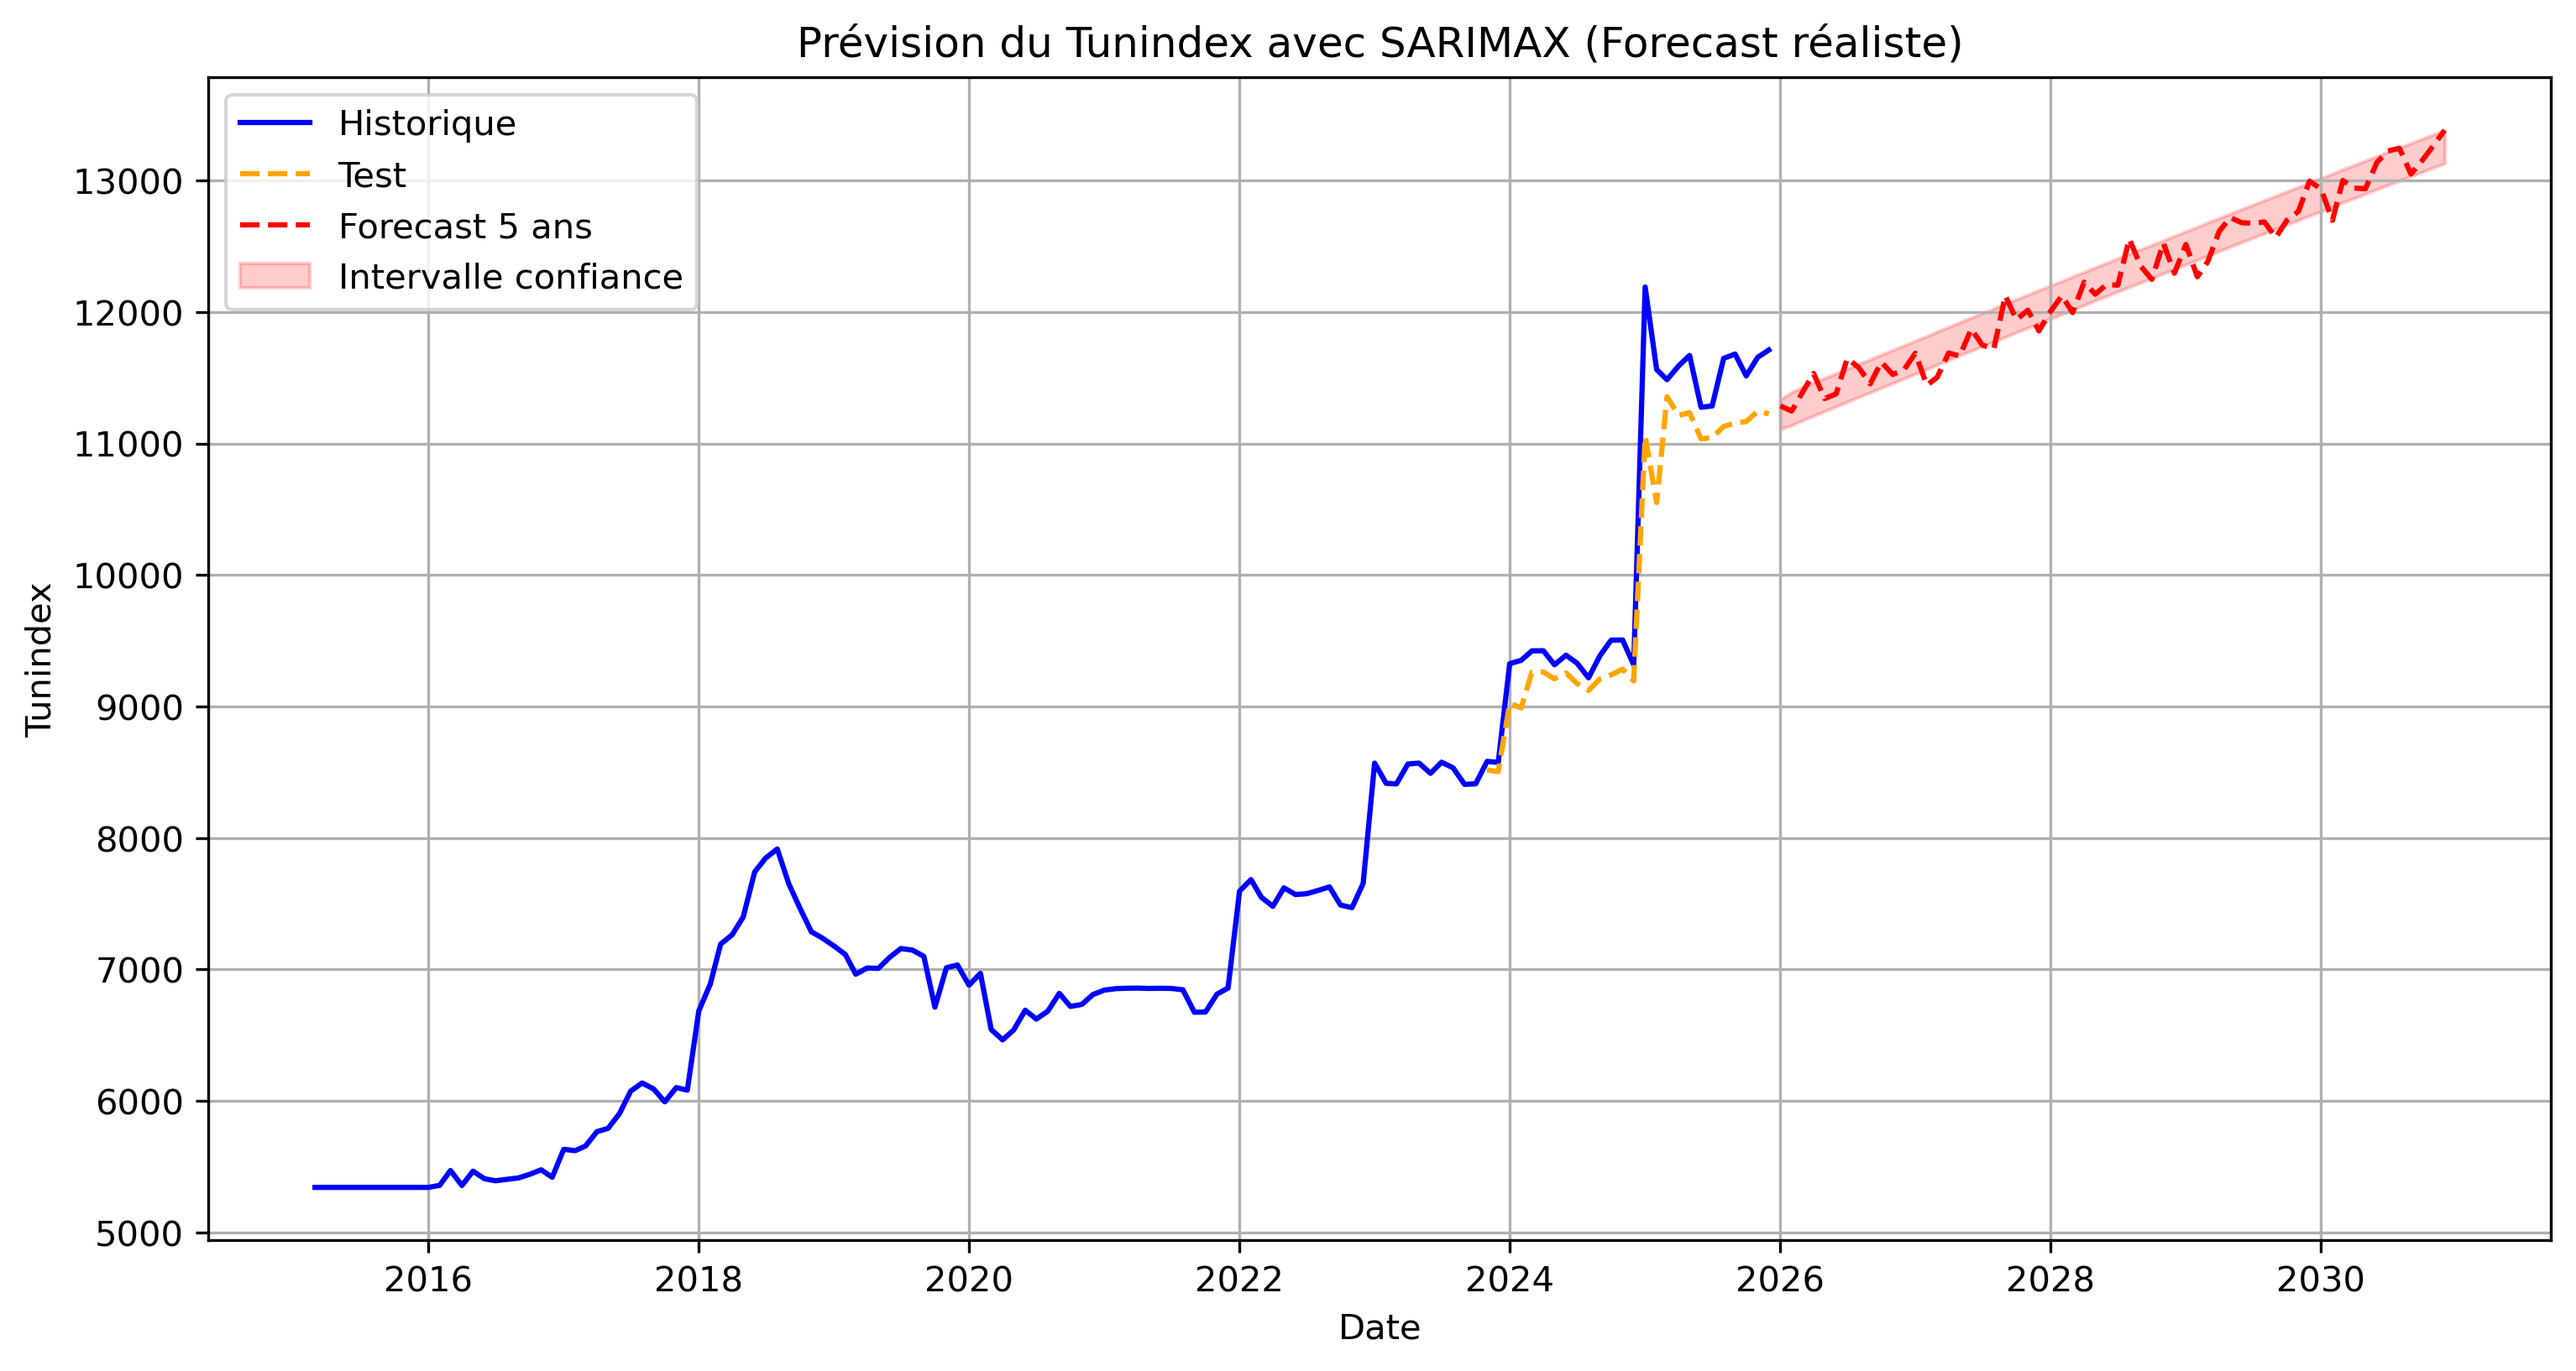
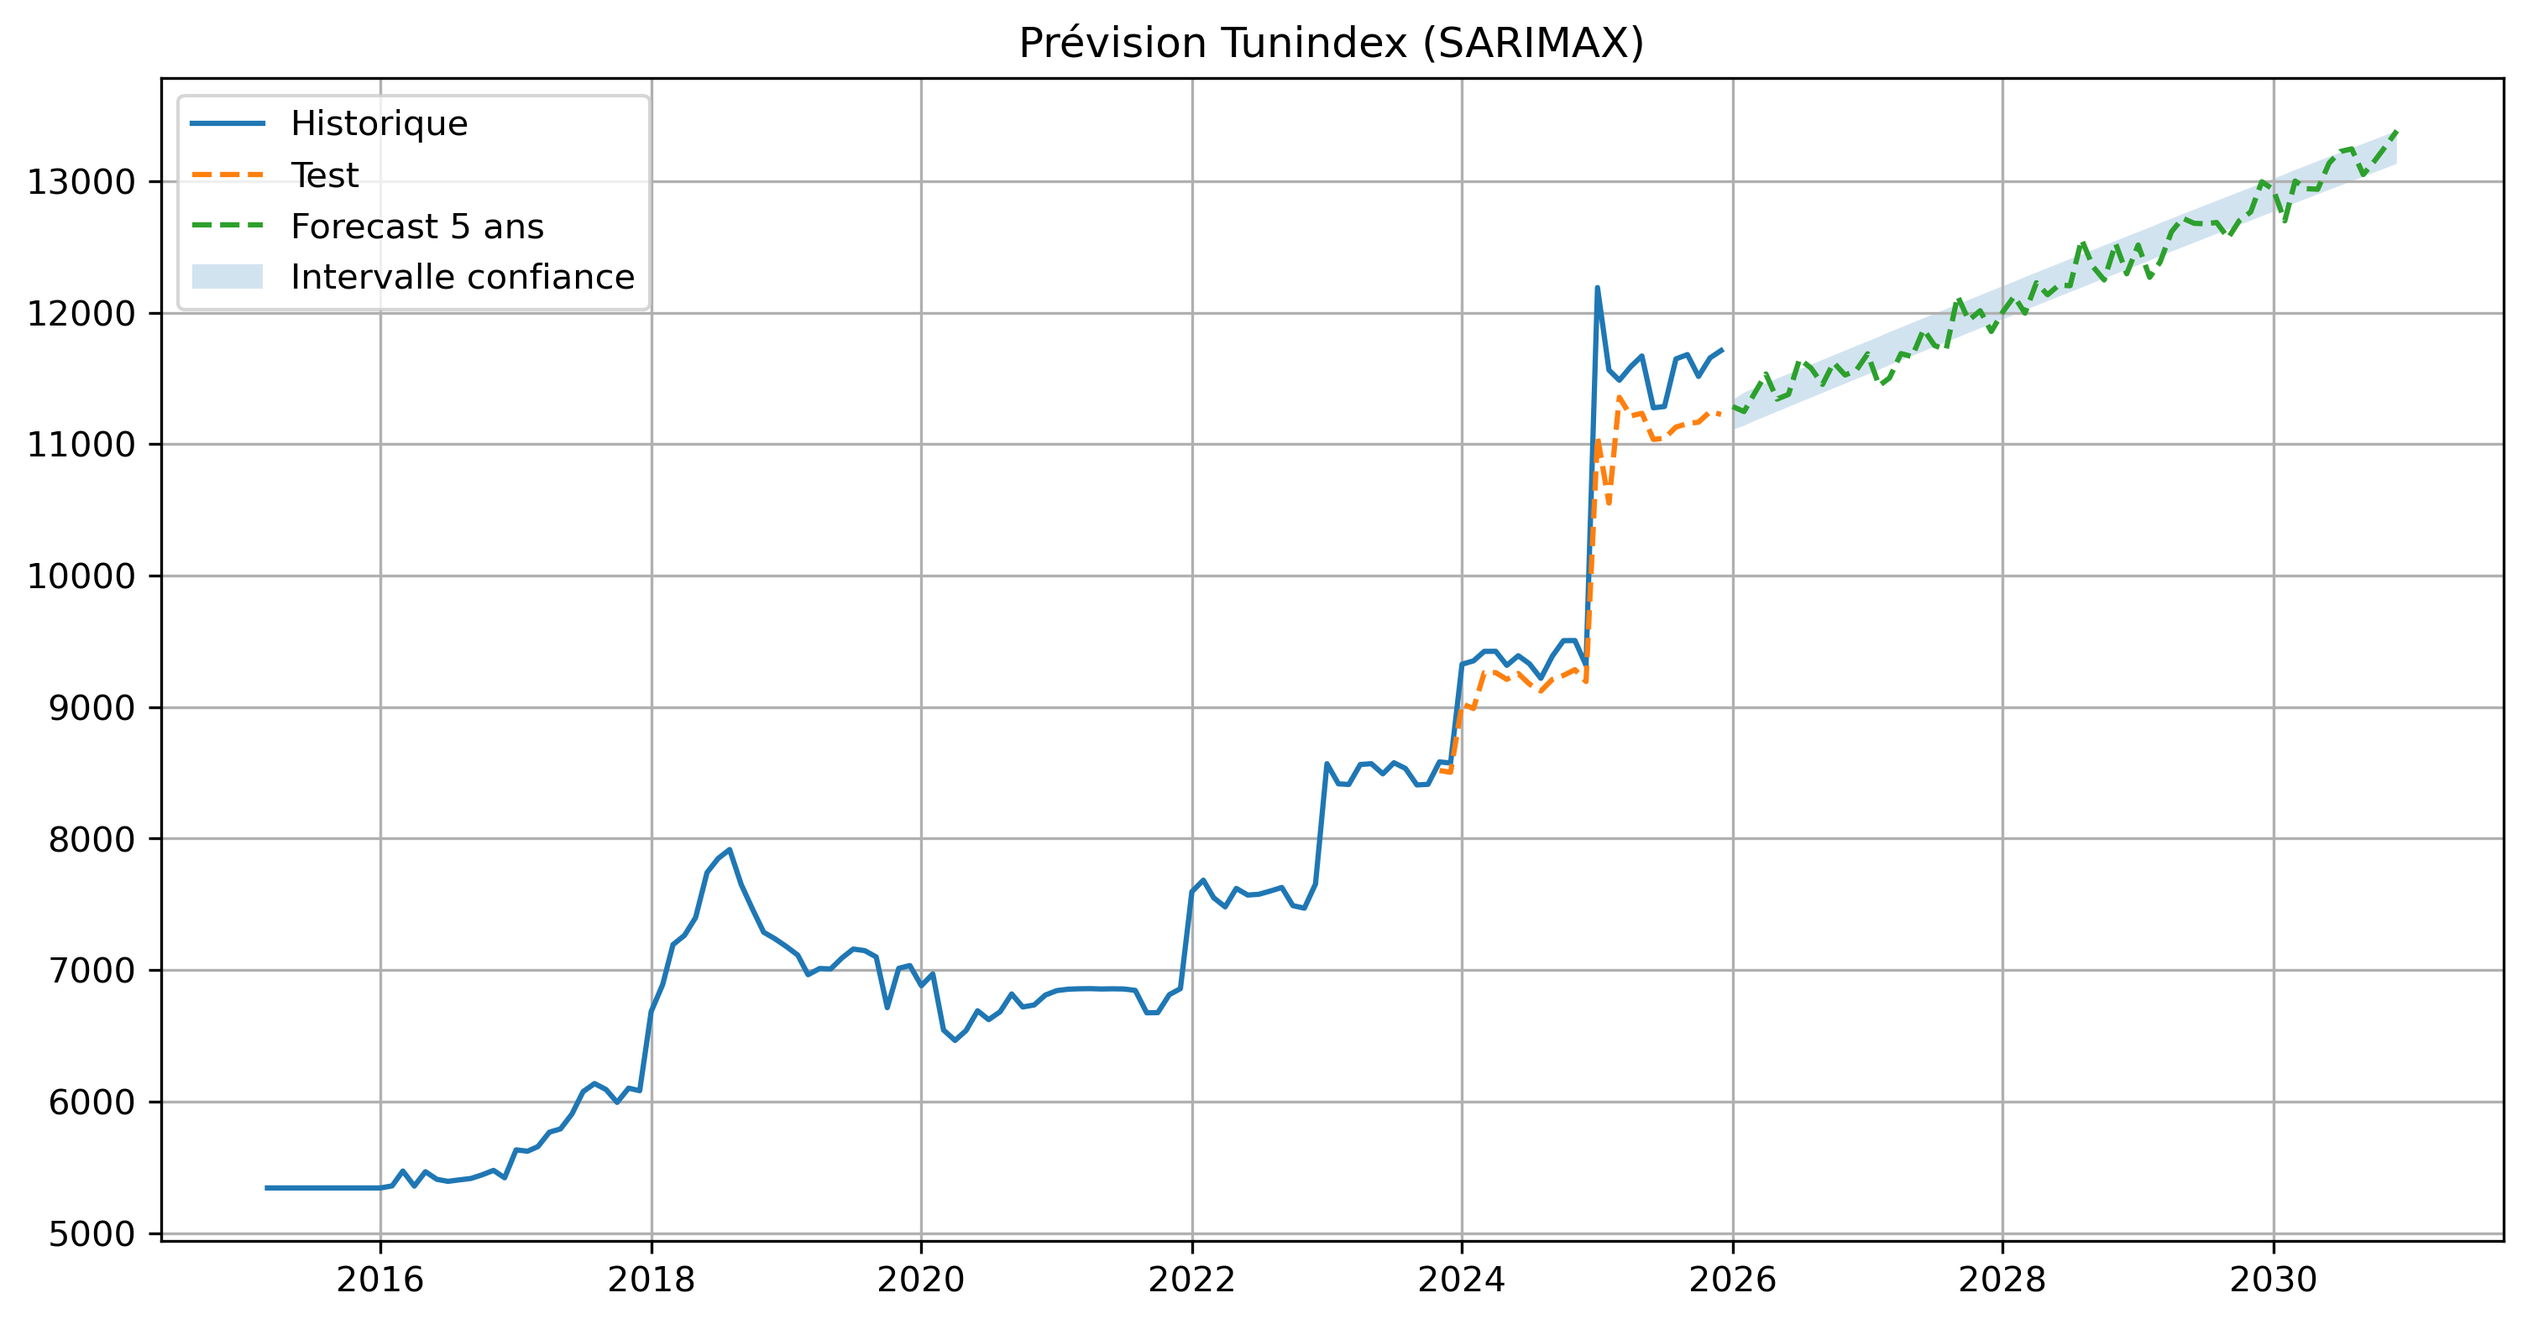
Modèle Sarimax

diff --git a/data/Series_temporelles/sarimax_estatemind.py b/data/Series_temporelles/sarimax_estatemind.py
@@ -7,22 +7,20 @@ from statsmodels.tsa.statespace.sarimax import SARIMAX
 from sklearn.metrics import mean_absolute_error, mean_squared_error
 
 # ==============================
-# PATHS (ADAPTÉS À TON PROJET)
+# PATHS
 # ==============================
-BASE_DIR = Path(__file__).resolve().parent  # Series_temporelles
-DATA_DIR = BASE_DIR.parent                  # data/
+BASE_DIR = Path(__file__).resolve().parent
+DATA_DIR = BASE_DIR.parent
 
-# 🔥 CSV depuis exports
 csv_path = DATA_DIR / "exports" / "macro_features_final.csv"
 
-# 🔥 outputs dans Series_temporelles
 output_dir = BASE_DIR / "outputs"
-output_dir.mkdir(exist_ok=True)
+output_dir.mkdir(parents=True, exist_ok=True)
 
 print(f"📂 Chargement fichier : {csv_path}")
 
 # ==============================
-# 1. Chargement des données
+# 1. Chargement
 # ==============================
 df = pd.read_csv(csv_path, parse_dates=["date"])
 df.set_index("date", inplace=True)
@@ -36,7 +34,7 @@ print("Colonnes disponibles :", df.columns.tolist())
 # 2. Feature Engineering
 # ==============================
 df["tunindex_ret_1m"] = df["tunindex"].pct_change()
-df["tunindex_ma3"] = df["tunindex"].rolling(window=3).mean()
+df["tunindex_ma3"] = df["tunindex"].rolling(3).mean()
 
 # ==============================
 # 3. Variables
@@ -44,19 +42,18 @@ df["tunindex_ma3"] = df["tunindex"].rolling(window=3).mean()
 target = df["tunindex"]
 
 features = [
+    "tunindex_ret_1m",
+    "tunindex_ma3",
     "inflation_pct",
     "pib_par_habitant",
     "taux_chomage",
-    "taux_urbanisation",
-    "tunindex_ret_1m",
-    "tunindex_ma3"
+    "taux_urbanisation"
 ]
 
 features = [col for col in features if col in df.columns]
+exog = df[features]
 
 print("Variables utilisées :", features)
-
-exog = df[features]
 
 # ==============================
 # 4. Nettoyage
@@ -114,6 +111,7 @@ print("RMSE :", round(rmse, 4))
 # 9. FORECAST FUTUR
 # ==============================
 n_steps = 60
+## a augmenter 
 
 avg_exog = X_test.tail(12).mean()
 
@@ -122,6 +120,7 @@ future_exog = pd.DataFrame(
     columns=X_test.columns
 )
 
+# évolution progressive
 for i in range(n_steps):
     future_exog.iloc[i] *= (1 + 0.002 * i)
 
@@ -134,7 +133,7 @@ forecast_values = forecast.predicted_mean
 forecast_ci = forecast.conf_int()
 
 # ==============================
-# VOLATILITÉ
+# VOLATILITÉ (réalisme)
 # ==============================
 residuals = y_test - predictions
 volatility = np.std(residuals)
@@ -152,32 +151,43 @@ forecast_ci.index = future_dates
 # ==============================
 plt.figure(figsize=(12,6))
 
-plt.plot(target.index, target, label="Historique", color="blue")
-plt.plot(y_test.index, predictions, label="Test", linestyle="--", color="orange")
-plt.plot(forecast_values.index, forecast_values, label="Forecast 5 ans", linestyle="--", color="red")
+plt.plot(target.index, target, label="Historique")
+plt.plot(y_test.index, predictions, label="Test", linestyle="--")
+plt.plot(forecast_values.index, forecast_values, label="Forecast 5 ans", linestyle="--")
 
 plt.fill_between(
     forecast_values.index,
     forecast_ci.iloc[:, 0],
     forecast_ci.iloc[:, 1],
-    color='red',
     alpha=0.2,
     label="Intervalle confiance"
 )
 
 plt.legend()
-plt.title("Prévision du Tunindex avec SARIMAX (Forecast réaliste)")
-plt.xlabel("Date")
-plt.ylabel("Tunindex")
+plt.title("Prévision Tunindex (SARIMAX)")
 plt.grid()
 
 # ==============================
-# 11. SAUVEGARDE
+# 11. SAUVEGARDE IMAGE
 # ==============================
-file_path = output_dir / "forecast_tunindex.png"
+img_path = output_dir / "forecast_tunindex.png"
+plt.savefig(img_path, dpi=300, bbox_inches='tight')
 
-plt.savefig(file_path, dpi=300, bbox_inches='tight')
+print(f"📁 Image sauvegardée : {img_path}")
 
-print(f"\n📁 Graphique sauvegardé dans : {file_path}")
+# ==============================
+# 12. SAUVEGARDE CSV
+# ==============================
+forecast_df = pd.DataFrame({
+    "date": forecast_values.index,
+    "forecast": forecast_values.values,
+    "lower_ci": forecast_ci.iloc[:, 0].values,
+    "upper_ci": forecast_ci.iloc[:, 1].values
+})
+
+csv_path_out = output_dir / "forecast_tunindex.csv"
+forecast_df.to_csv(csv_path_out, index=False)
+
+print(f"📁 CSV sauvegardé : {csv_path_out}")
 
 plt.show()
